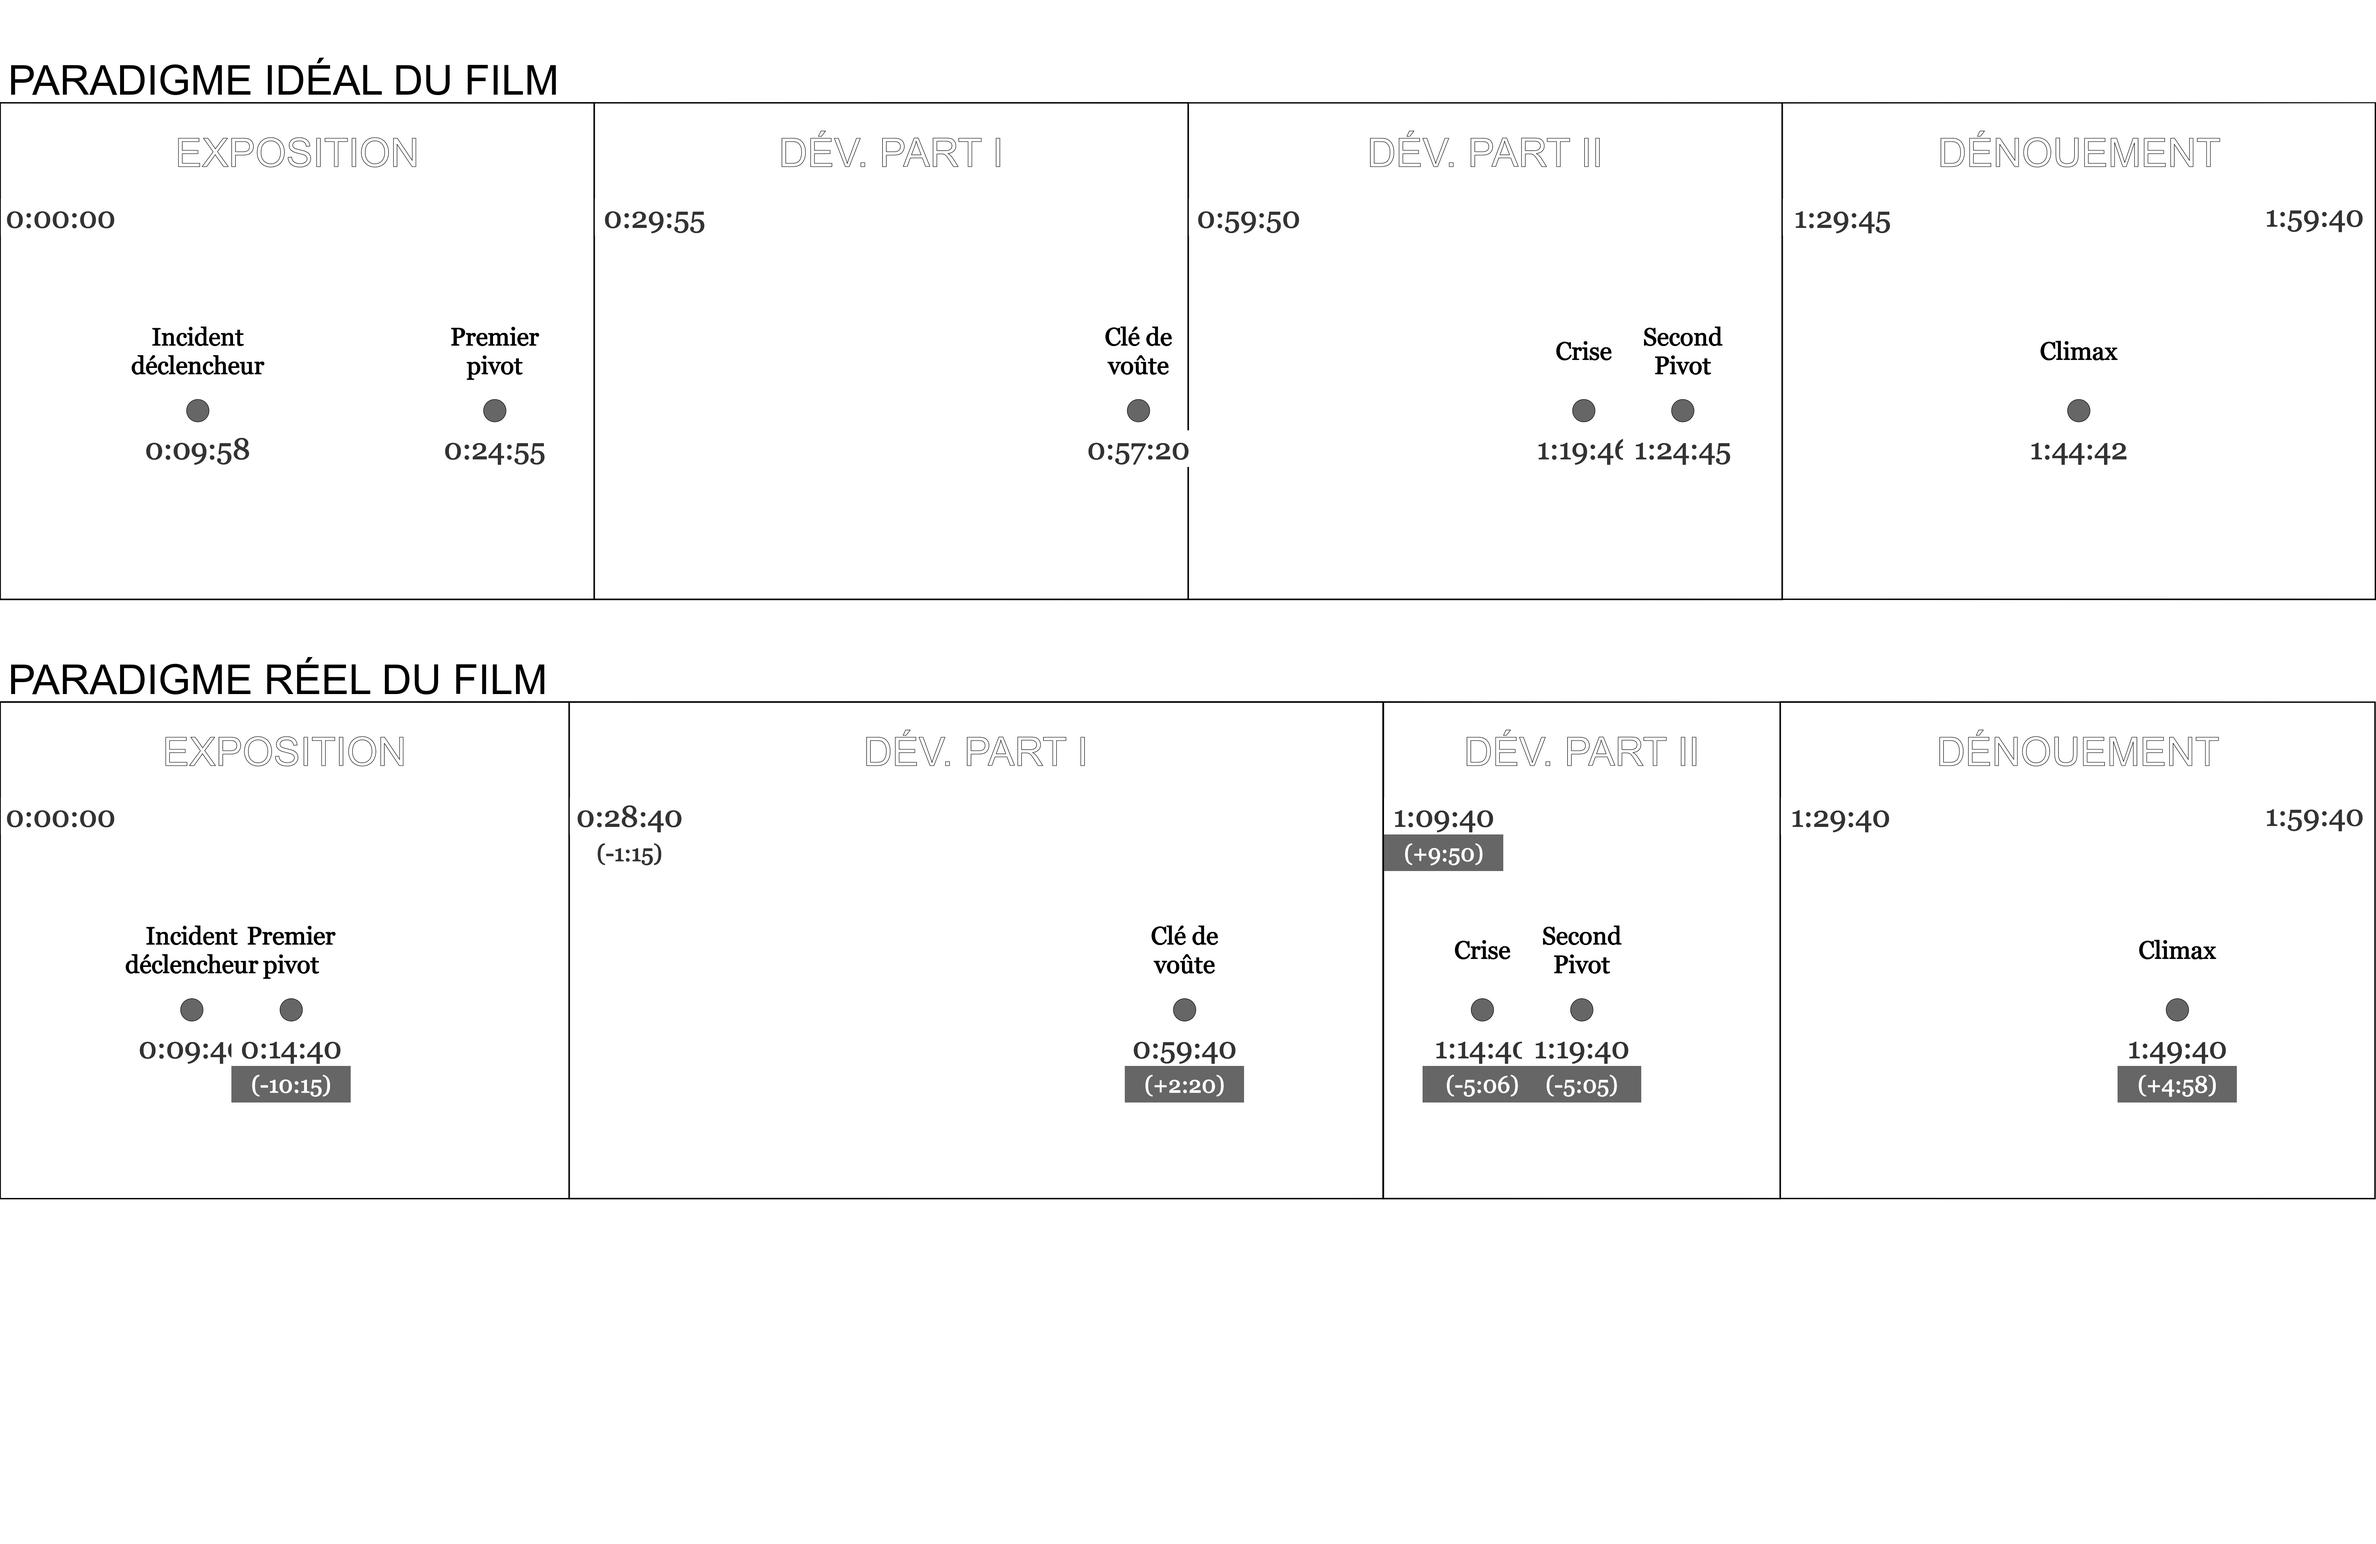
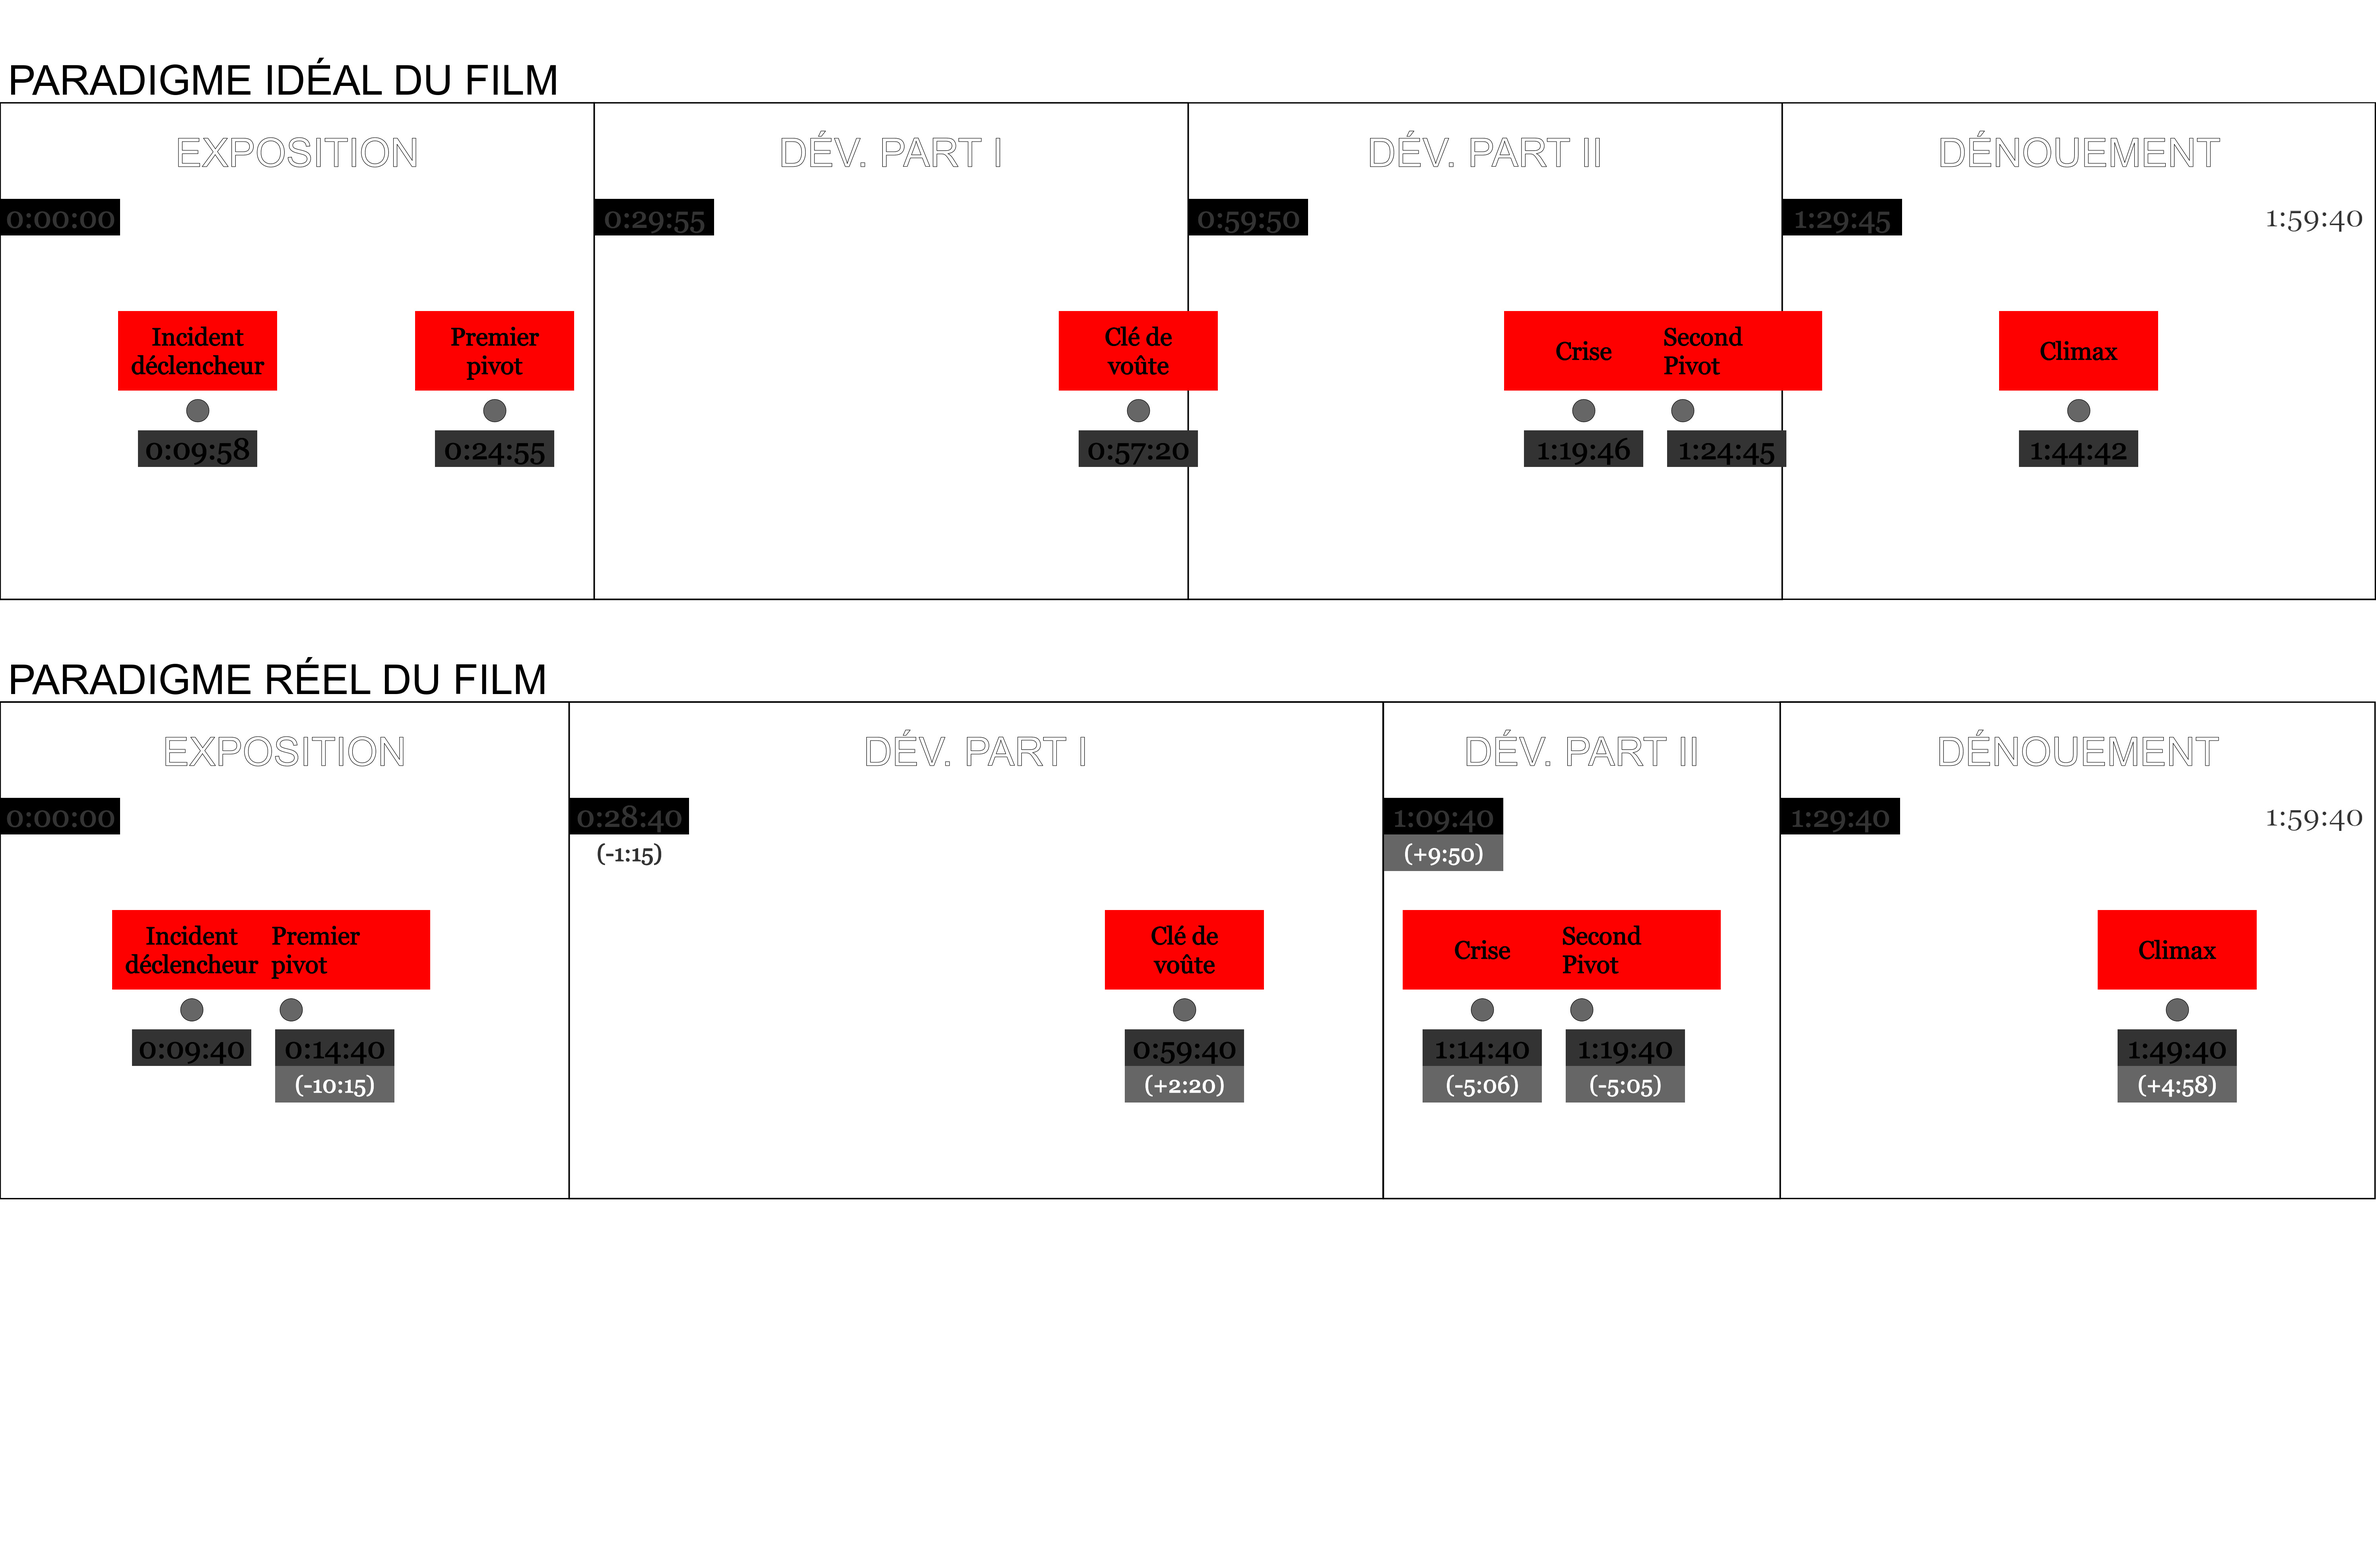
Ajustement des positions pour éviter les overlays (mais problème horloges)

diff --git a/lib/pfa/imagemagick_module.rb b/lib/pfa/imagemagick_module.rb
@@ -162,6 +162,19 @@ module MagickPFA
       noeud:    1.0 * BASE_FONTSIZE,
     })
 
+    rem_const_if_exists('Label_Width') # tests
+    MagickPFA.const_set('Label_Width', {
+      part:     400,
+      sequence: 400,
+      noeud:    400,
+    })
+    rem_const_if_exists('Label_Height') # tests
+    MagickPFA.const_set('Label_Height', {
+      part:     200,
+      sequence: 200,
+      noeud:    200,
+    })
+
     # Taille de fonte des horloges par partie
     rem_const_if_exists('FontSize_Horloges') # tests
     MagickPFA.const_set('FontSize_Horloges', {
@@ -233,8 +246,8 @@ module MagickPFA
   # Code ImageMagick de l'horloge pour les parties
   # 
   CODE_HORLOGE = <<~CMD.strip.freeze
-    \\( -extent %{w}x%{h} -background white -stroke gray20 -strokewidth 1 
-    -pointsize %{fs} -font Georgia -fill gray20 -gravity Center label:"%{mk}" \\) 
+    \\( -extent %{w}x%{h} -background %{bg} -stroke %{fg} -strokewidth 1 
+    -pointsize %{fs} -font Georgia -fill %{fg} -gravity Center label:"%{mk}" \\) 
     -geometry +%{l}+%{t} -gravity NorthWest -composite
     CMD
   
@@ -242,10 +255,10 @@ module MagickPFA
   CODE_HORLOGE_FIN = <<~CMD.strip.freeze
     -pointsize %{fs}
     -font Georgia
-    -stroke gray20
+    -stroke white
+    -background gray20
     -strokewidth 1
     -fill gray20
-    -background transparent
     -gravity NorthEast
     -draw "text 30,%{t} '%{mk}'"
     CMD
@@ -260,7 +273,7 @@ module MagickPFA
   # @return [BashString] Le code Image Magick de l'horloge pour tous
   # les éléments
   # 
-  def horloge_code(real_pfa)
+  def horloge_code(real_pfa, current_left)
     start_ntime = real_pfa ? start_at : abs_start
     #
     # Si c'est le noeud réel, il faut calculer son décalage avec le
@@ -276,6 +289,12 @@ module MagickPFA
     else
       (real_pfa ? left : abs_left) - Horloge_Width[type] / 2
     end
+
+    # Problème d'overlay
+    if current_left && theleft < current_left
+      theleft = current_left + 10
+    end
+
     #
     # Le top dépend de la nature de l'élément
     # 
@@ -284,6 +303,9 @@ module MagickPFA
     else
       (real_pfa ? top : abs_top) + 50
     end
+
+    background = part? ? 'black' : 'gray20'
+    foreground = part? ? 'gray20' : 'black'
 
     #
     # Les données template en fonction du pfa absolu ou réel
@@ -294,6 +316,8 @@ module MagickPFA
       l:    theleft,  # left de l'horloge
       t:    thetop,  # top de l'horloge (et du décalage)
       fs:   FontSize_Horloges[type], # Font size
+      bg:   background,
+      fg:   foreground,
       mk:   start_ntime.to_horloge, # Horloge
     }
     #
@@ -373,7 +397,10 @@ module MagickPFA
   #         Pour savoir si on doit retourner le code pour le pfa
   #         réel ou pour le pfa absolu.
   # 
-  def image_magick_code(real_pfa)
+  # @param current_left [Integer|Float]
+  #         Le left sur lequel on se trouve, pour savoir si ça déborde
+  # 
+  def image_magick_code(real_pfa, current_left)
     code =  if type == :sequence
               CODE_IMAGEMAGICK_SEQUENCE
             else
@@ -385,21 +412,30 @@ module MagickPFA
     data_temp = {
       l: real_pfa ? left : abs_left, # alignement gauche
       t: real_pfa ? top : abs_top, # top
-      w: 400, # largeur pour la marque (pour le moment, arbitraire)
-      h: 200, # hauteur pour la marque (sur deux lignes)
+      w: Label_Width[type], # largeur pour la marque (pour le moment, arbitraire)
+      h: Label_Height[type], # hauteur pour la marque (sur deux lignes)
       fs: FONTSIZES[type],
+      a:  'Center', # modifié par l'overlay
       m: mark.gsub(/ /,"\\n"),
     }
+
+
     data_temp.merge!({
       # Noter que ci-dessous on n'utilise pas le @width de l'élément
       # pour avoir des ronds uniformes
-      r:  data_temp[:l] + 20,
+      r:  data_temp[:l] + 20, # right (pour la boite du nom)
       b:  data_temp[:t] + 20,
       lm: data_temp[:l] - data_temp[:w] / 2, # le left de la marque du nom
       tm: data_temp[:t] - 250, # le top de la marque
       lh: data_temp[:l] - data_temp[:w] / 2, # le left de l'horloge
       th: data_temp[:t] + 150, # le top de l'horloge
     })
+
+    if current_left && data_temp[:lm] < current_left
+      # dbg "PROBLÈME D'OVERLAY avec #{id} (:l)".rouge
+      data_temp[:lm] = current_left
+      data_temp[:a]  = 'West'
+    end
 
     code % data_temp
   end
@@ -411,7 +447,7 @@ module MagickPFA
     -stroke black
     -fill gray40
     -draw "circle %{l},%{t} %{r},%{b}"
-    \\( -extent %{w}x%{h} -pointsize %{fs} -stroke black -fill black -background transparent -gravity Center 
+    \\( -extent %{w}x%{h} -pointsize %{fs} -stroke black -fill black -background red -gravity %{a} 
     label:"%{m}" \\) -geometry +%{lm}+%{tm} -gravity NorthWest -composite
     CMD
 

diff --git a/lib/pfa/img_builder.rb b/lib/pfa/img_builder.rb
@@ -81,8 +81,8 @@ class ImgBuilder < AnyBuilder
       @code_image_magick << acte.abs_act_name_code
       @code_image_magick << acte.act_name_code
       # --- Horloge de l'acte ---
-      @code_image_magick << acte.horloge_code(false)
-      @code_image_magick << acte.horloge_code(true)
+      @code_image_magick << acte.horloge_code(false, nil)
+      @code_image_magick << acte.horloge_code(true, nil)
     end
 
     # --- Horloges de fin ---
@@ -94,19 +94,27 @@ class ImgBuilder < AnyBuilder
     @code_image_magick << pfa.denouement.horloge_fin(true)
 
 
-    # --- Autres noeuds/séquences ---
+    # --- IMPRESSION DES AUTRES NOEUDS/SÉQUENCES ---
     # 
     # On passe en revue tous les autres éléments du paradigme réel
     # et s'ils sont imprimable, on les ajoute.
+    @last_abs_left = nil
+    @last_left = nil
     pfa.data.values.each do |node|
       next if node.part? # déjà traité
       next unless node.drawnable? # pas imprimable
       # -- Mark et nom --
-      @code_image_magick << node.image_magick_code(false)
-      @code_image_magick << node.image_magick_code(true)
+      @code_image_magick << node.image_magick_code(false, @last_abs_left)
+      @code_image_magick << node.image_magick_code(true, @last_left)
       # -- Les horloges --
-      @code_image_magick << node.horloge_code(false)
-      @code_image_magick << node.horloge_code(true)
+      @code_image_magick << node.horloge_code(false, @last_abs_left)
+      @code_image_magick << node.horloge_code(true, @last_left)
+      # 
+      # On garde en mémoire les dimensions pour savoir si ça
+      # va manger dessus (overlay)
+      # 
+      @last_abs_left  = node.abs_left + [ MagickPFA::Horloge_Width[node.type]/2, MagickPFA::Label_Width[node.type]/2 ].max
+      @last_left      = node.left     + [ MagickPFA::Horloge_Width[node.type]/2, MagickPFA::Label_Width[node.type]/2 ].max
     end
 
 

diff --git a/lib/pfa/node_time.rb b/lib/pfa/node_time.rb
@@ -89,7 +89,6 @@ class NTime
 
   def background_per_offset
     @background_per_offset ||= begin
-      dbg("offset > 120 est #{(offset > 120).inspect}".bleu)
       if offset > 120
         'gray40' # offset trop grand
       else
@@ -99,7 +98,6 @@ class NTime
   end
   def foreground_per_offset
     @foreground_per_offset ||= begin
-      dbg("offset < 60 est #{(offset < 60).inspect}".bleu)
       if offset < 60
         'gray60'
       elsif offset < 120
